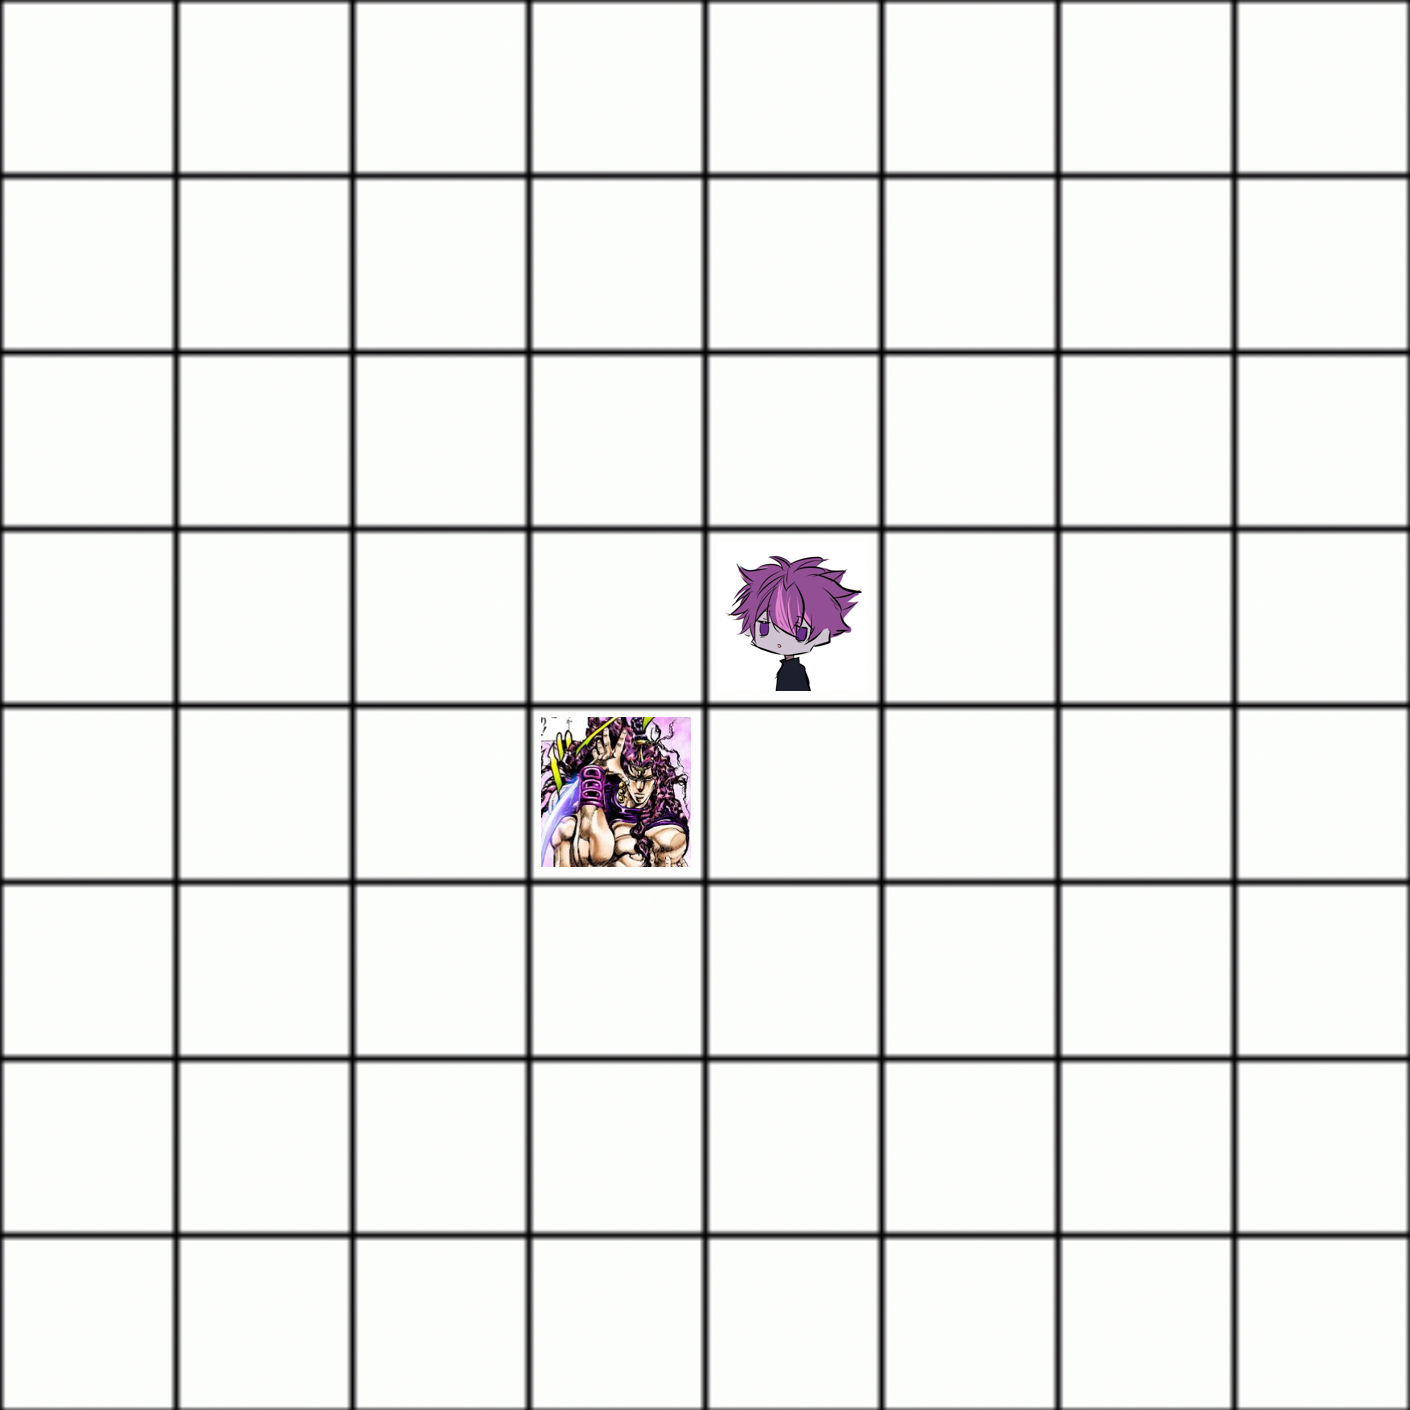
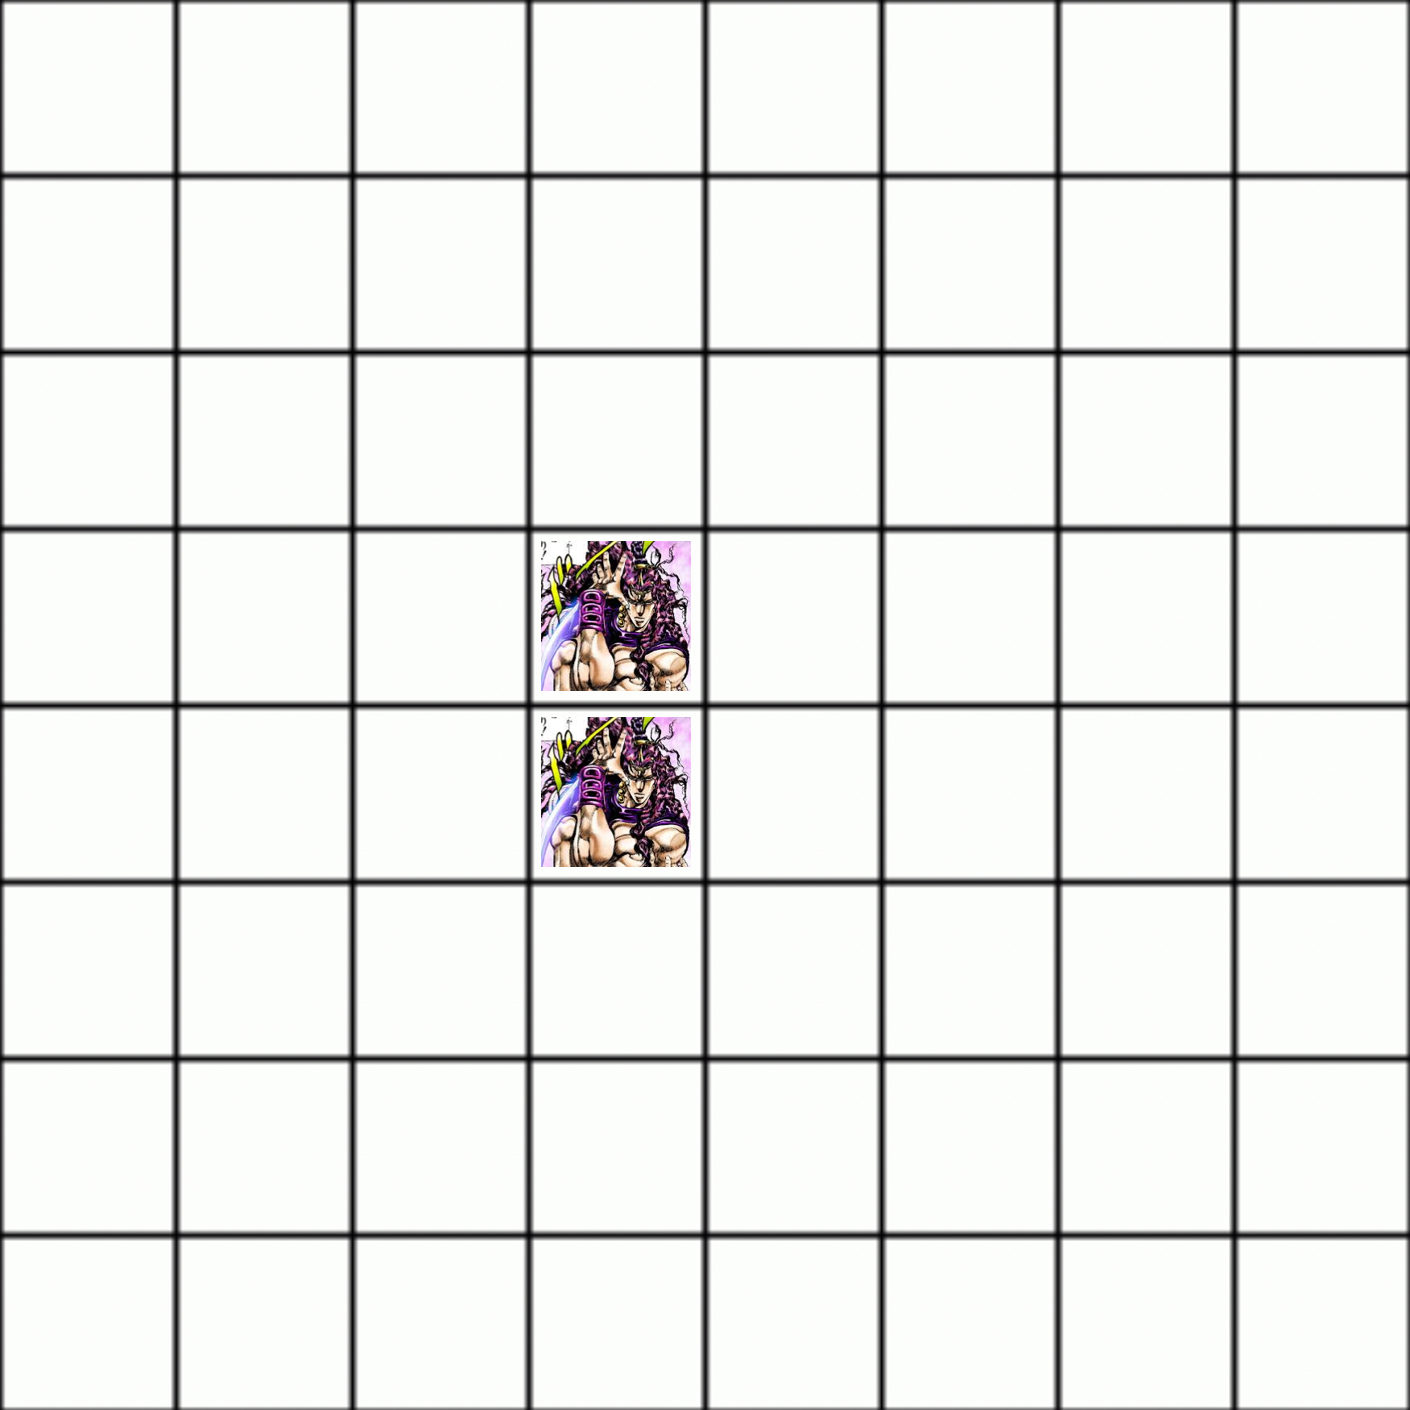
added map movement

Changed region(s): [[0.3745, 0.3745, 0.6241, 0.4993]]

diff --git a/main.py b/main.py
@@ -41,18 +41,92 @@ async def game_event(ctx):
 
 
 
-
 @client.command(aliases=["ui"])
 async def turn_ui(ctx):
 	global active_player, opp_player
 
+	async def movement(interaction):
+		if interaction.user == active_player.member:
+			button_back = Button(label='prev menu')
+			button_up=Button(emoji='⬆')
+			button_down=Button(emoji='⬇')
+			button_left=Button(emoji='⬅')
+			button_right=Button(emoji='➡')
+
+			async def change_frame(interaction):
+				ui2 = Embed(title = f"{active_player.name}'s turn", description=active_player.dis_hp())
+				file2 = File(image.frame_gen(players), filename="image.png")
+				ui2.set_image(url="attachment://image.png")
+				ui2.set_thumbnail(url=active_player.member.display_avatar)
+				await interaction.message.edit(file=file2,embed=ui2,view=view_move)
+
+			async def check_avail_spaces():
+				if active_player.pos[0]<= 0 or (active_player.pos[1]==opp_player.pos[1] and active_player.pos[0]-1 == opp_player.pos[0]):
+					button_left.disabled = True
+				else:
+					button_left.disabled = False	
+
+				if active_player.pos[0]>= 7 or (active_player.pos[1]==opp_player.pos[1] and active_player.pos[0]+1 == opp_player.pos[0]):
+					button_right.disabled = True
+				else:
+					button_right.disabled = False
+
+				if active_player.pos[1]<= 0 or (active_player.pos[0]==opp_player.pos[0] and active_player.pos[1]-1 == opp_player.pos[1]):
+					button_up.disabled = True
+				else:
+					button_up.disabled = False	
+
+				if active_player.pos[1]>= 7 or (active_player.pos[0]==opp_player.pos[0] and active_player.pos[1]+1 == opp_player.pos[1]):
+					button_down.disabled = True	
+				else:
+					button_down.disabled = False			
+
+			async def down(interaction):
+				if interaction.user == active_player.member:
+					active_player.pos[1] += 1
+					await check_avail_spaces()
+					await change_frame(interaction)
+
+			async def up(interaction):
+				if interaction.user == active_player.member:
+					active_player.pos[1] -= 1
+					await check_avail_spaces()
+					await change_frame(interaction)	
+
+			async def right(interaction):
+				if interaction.user == active_player.member:
+					active_player.pos[0] += 1
+					await check_avail_spaces()
+					await change_frame(interaction)	
+								
+			async def left(interaction):
+				if interaction.user == active_player.member:
+					active_player.pos[0] -= 1
+					await check_avail_spaces()
+					await change_frame(interaction)			
+
+			async def back(interaction):
+				if interaction.user == active_player.member:		
+					await interaction.response.edit_message(view=view)
+
+			button_up.callback = up
+			button_down.callback = down	
+			button_left.callback = left
+			button_right.callback = right
+			button_back.callback = back
+			button_list = [button_back,button_up,button_down,button_right,button_left]
+			view_move = View()
+			for button in button_list:
+				view_move.add_item(button)
+			await interaction.response.edit_message(view=view_move)		
 
 	async def pass_to_next_player(interaction):
 		global active_player, opp_player
 		if interaction.user == active_player.member:
 			opp_player = active_player
-			button_pass.disabled = True
-			button_damage.disabled = True
+
+			for button in buttons:
+				button.disabled = True
 			await interaction.response.edit_message(view=view)
 			active_player = next(pcycle)
 			await turn_ui(ctx)
@@ -67,35 +141,31 @@ async def turn_ui(ctx):
 			button_damage.disabled = True
 			await interaction.response.edit_message(view=view)
 			await interaction.followup.send(f'{active_player.name} dealt {damage} damage')
-			
 
-
-
-	ui = Embed(title = f"{active_player.name}'s turn", description=active_player.dis_hp())
-
-
-	file = File(image.frame_gen(players), filename="image.png")
-	ui.set_image(url="attachment://image.png")
-
-	# ui.set_image(url='attachment://images/grid1.png')
-
-	ui.set_thumbnail(url=active_player.member.display_avatar)
-	
-
-
-	button_pass = Button(label='pass')
+	button_pass = Button(label='pass',style=discord.ButtonStyle.green)
 	button_pass.callback = pass_to_next_player
 
 	button_damage = Button(label="Hit enemy",style=discord.ButtonStyle.red)
 	button_damage.callback = deal_damage
 
+	button_movement = Button(label="Move")
+	button_movement.callback = movement
+
+	buttons = [button_pass,button_damage,button_movement]
+
+	ui = Embed(title = f"{active_player.name}'s turn", description=active_player.dis_hp())
+	file = File(image.frame_gen(players), filename="image.png")
+	ui.set_image(url="attachment://image.png")
+	ui.set_thumbnail(url=active_player.member.display_avatar)
+
 	view = View()
-	view.add_item(button_pass)
-	view.add_item(button_damage)
-	await ctx.send(file=file,embed=ui,view=view)
-
-
-
+	for button in buttons:
+		view.add_item(button)		
+		
+	async def main_menu(ctx):
+		await ctx.send(file=file,embed=ui,view=view)
+	
+	await main_menu(ctx)
 
 #start game 
 @client.command(aliases=['sg'])
@@ -105,11 +175,9 @@ async def startgame(ctx, p2:Optional[Member]):
 	if not game_state:
 
 		player1 = game.Player(ctx.message.author)
-		player1.posx = 4
-		player1.posy = 3
+		player1.pos = [4,3]
 		player2 = game.Player(p2)
-		player2.posx = 3
-		player2.posy = 4
+		player2.pos = [3,4]
 		players = [player2,player1]
 		await image.image_extractor(player1)
 		await image.image_extractor(player2)
@@ -128,29 +196,11 @@ async def startgame(ctx, p2:Optional[Member]):
 		await game_event(ctx)
 	else:
 		await ctx.send('**unable to start game**')	
-	# except NameError:
-	# 	player1 = game.Player(ctx.message.author)
-	# 	player2 = game.Player(p2)
-	# 	game_state = True
-	# 	active_player = player1
-	# 	opp_player = player2
-	# 	pcycle = cycle(players)
-	
-	# 	embed = Embed(title='Game Start', description=f'{player1.name} vs {player2.name}')
-
-	# 	await ctx.send(embed = embed)
-
-
-	# 	await turn_ui(ctx)
-	# 	await game_event(ctx)		
 		
-
 #command to clear chat in server
 @client.command()
 async def clear(ctx):
     await ctx.channel.purge(limit=50)
-
-
 
 #runs the bot ultimately
 client.run(token)

diff --git a/image.py b/image.py
@@ -14,16 +14,12 @@ async def image_extractor(player):
 		pimg.save(f"./images/playerimgs/{player.name}.png")
 
 		player.img = pimg	
-	
-
 
 def frame_gen(players):
 	
 	with Image.open('./images/grid.png') as grid:
 
 		for player in players:
-			grid.paste(player.img,(13+176*player.posx,13+176*player.posy),player.img)				
+			grid.paste(player.img,(13+176*player.pos[0],13+176*player.pos[1]),player.img)				
 			grid.save('./images/grid1.png')
 		return 'images/grid1.png'
-
-

diff --git a/game.py b/game.py
@@ -6,8 +6,7 @@ class Player():
 		self.hp = 10
 		self.member = mem
 		self.name = mem.name
-		self.posx = 0
-		self.posy = 0
+		self.pos = [0,0]
 		self.avatar = mem.display_avatar
 		self.img = None
 
